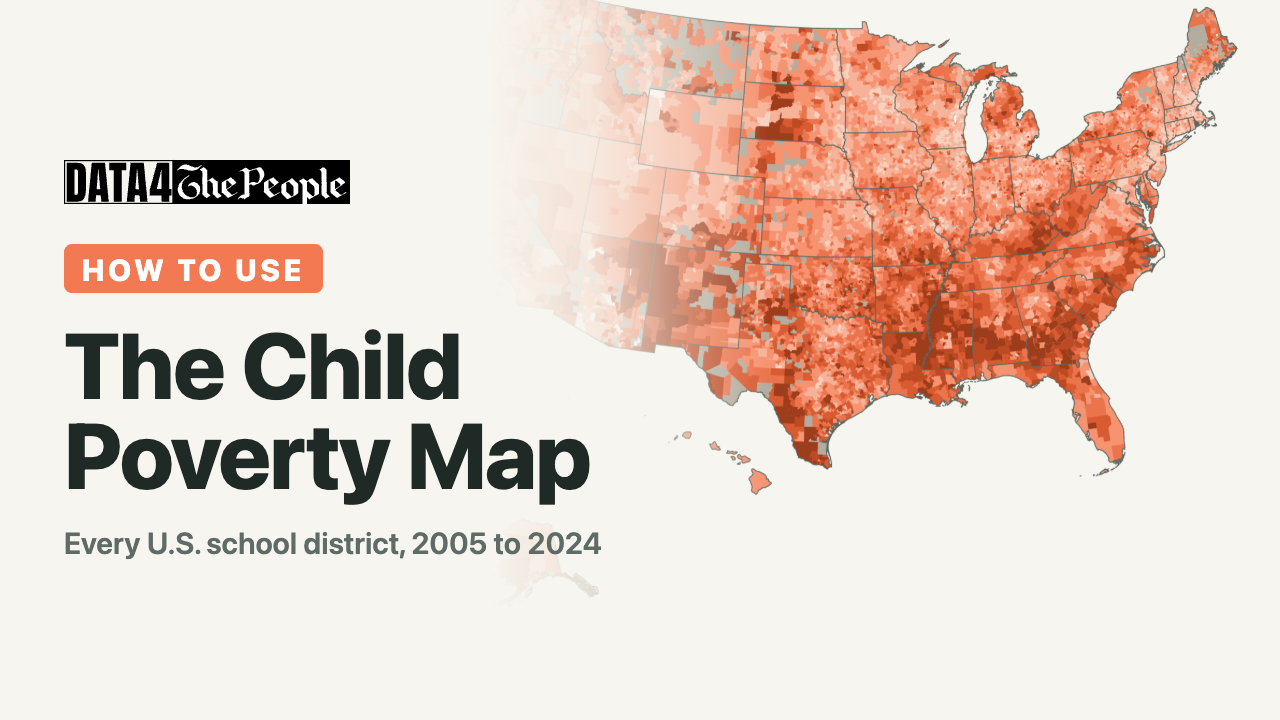
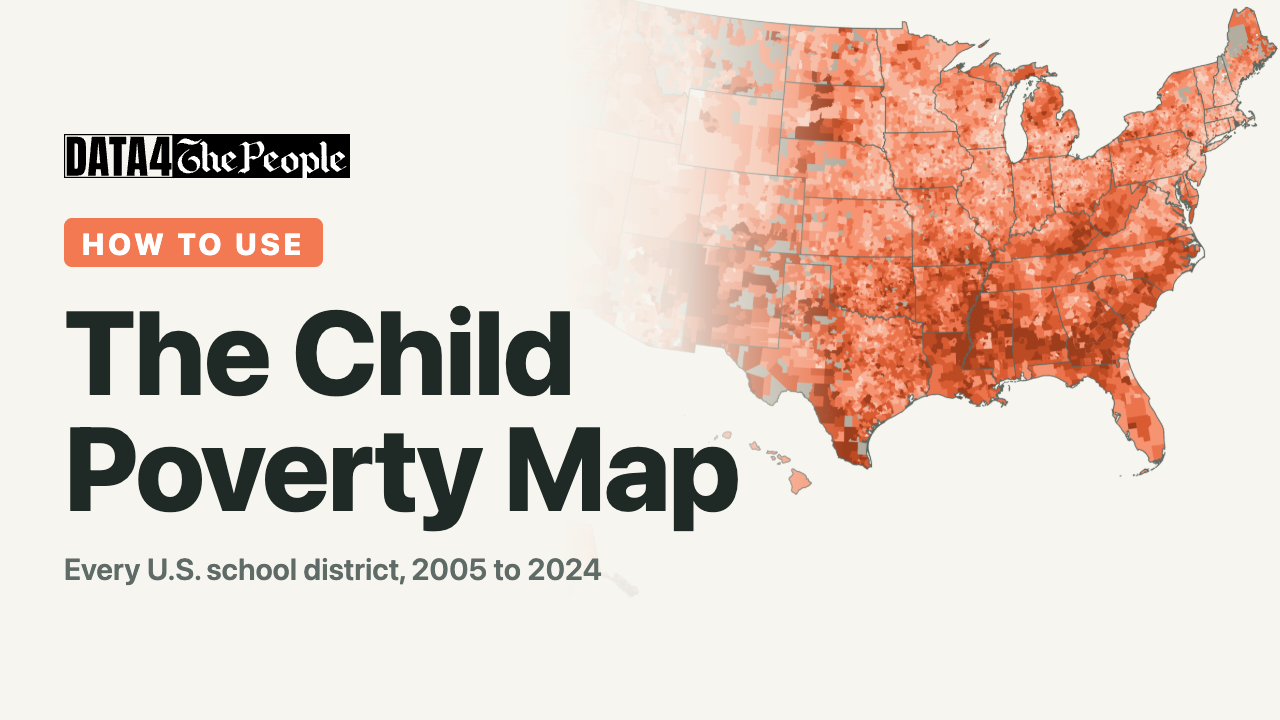
Thumbnail: larger title

Changed region(s): [[0.0312, 0.0, 1.0, 0.825]]

diff --git a/video/thumbnail.py b/video/thumbnail.py
@@ -54,13 +54,13 @@ def main():
         html = f"""<!doctype html><html><head><meta charset="utf-8"><style>
         html,body{{margin:0;width:{TW}px;height:{TH}px;overflow:hidden;background:{PAPER};color:{INK};
           font-family:-apple-system,BlinkMacSystemFont,"Segoe UI",Helvetica,Arial,sans-serif}}
-        .map{{position:absolute;right:-70px;top:50%;transform:translateY(-50%);height:800px;width:auto;mix-blend-mode:multiply}}
-        .shade{{position:absolute;inset:0;background:linear-gradient(90deg,{PAPER} 0%,{PAPER} 38%,rgba(247,245,239,.85) 46%,rgba(247,245,239,0) 60%)}}
-        .txt{{position:absolute;left:64px;top:0;bottom:0;width:640px;display:flex;flex-direction:column;justify-content:center}}
+        .map{{position:absolute;right:-110px;top:50%;transform:translateY(-50%);height:800px;width:auto;mix-blend-mode:multiply}}
+        .shade{{position:absolute;inset:0;background:linear-gradient(90deg,{PAPER} 0%,{PAPER} 44%,rgba(247,245,239,.85) 53%,rgba(247,245,239,0) 66%)}}
+        .txt{{position:absolute;left:64px;top:0;bottom:0;width:760px;display:flex;flex-direction:column;justify-content:center}}
         .logo{{height:44px;width:auto;display:block;margin-bottom:40px;align-self:flex-start}}
         .kicker{{display:inline-block;align-self:flex-start;background:{CORAL};color:#fff;font-weight:800;font-size:30px;
           letter-spacing:.12em;text-transform:uppercase;padding:8px 18px 6px;border-radius:8px;margin-bottom:26px}}
-        h1{{font-size:92px;line-height:.98;margin:0;font-weight:800;letter-spacing:-.01em}}
+        h1{{font-size:118px;line-height:.98;margin:0;font-weight:800;letter-spacing:-.01em}}
         .sub{{font-size:30px;color:#5F6B67;margin-top:26px;font-weight:600}}
         </style></head><body>
         <img class="map" src="file://{BUILD / 'thumb-map.png'}">
